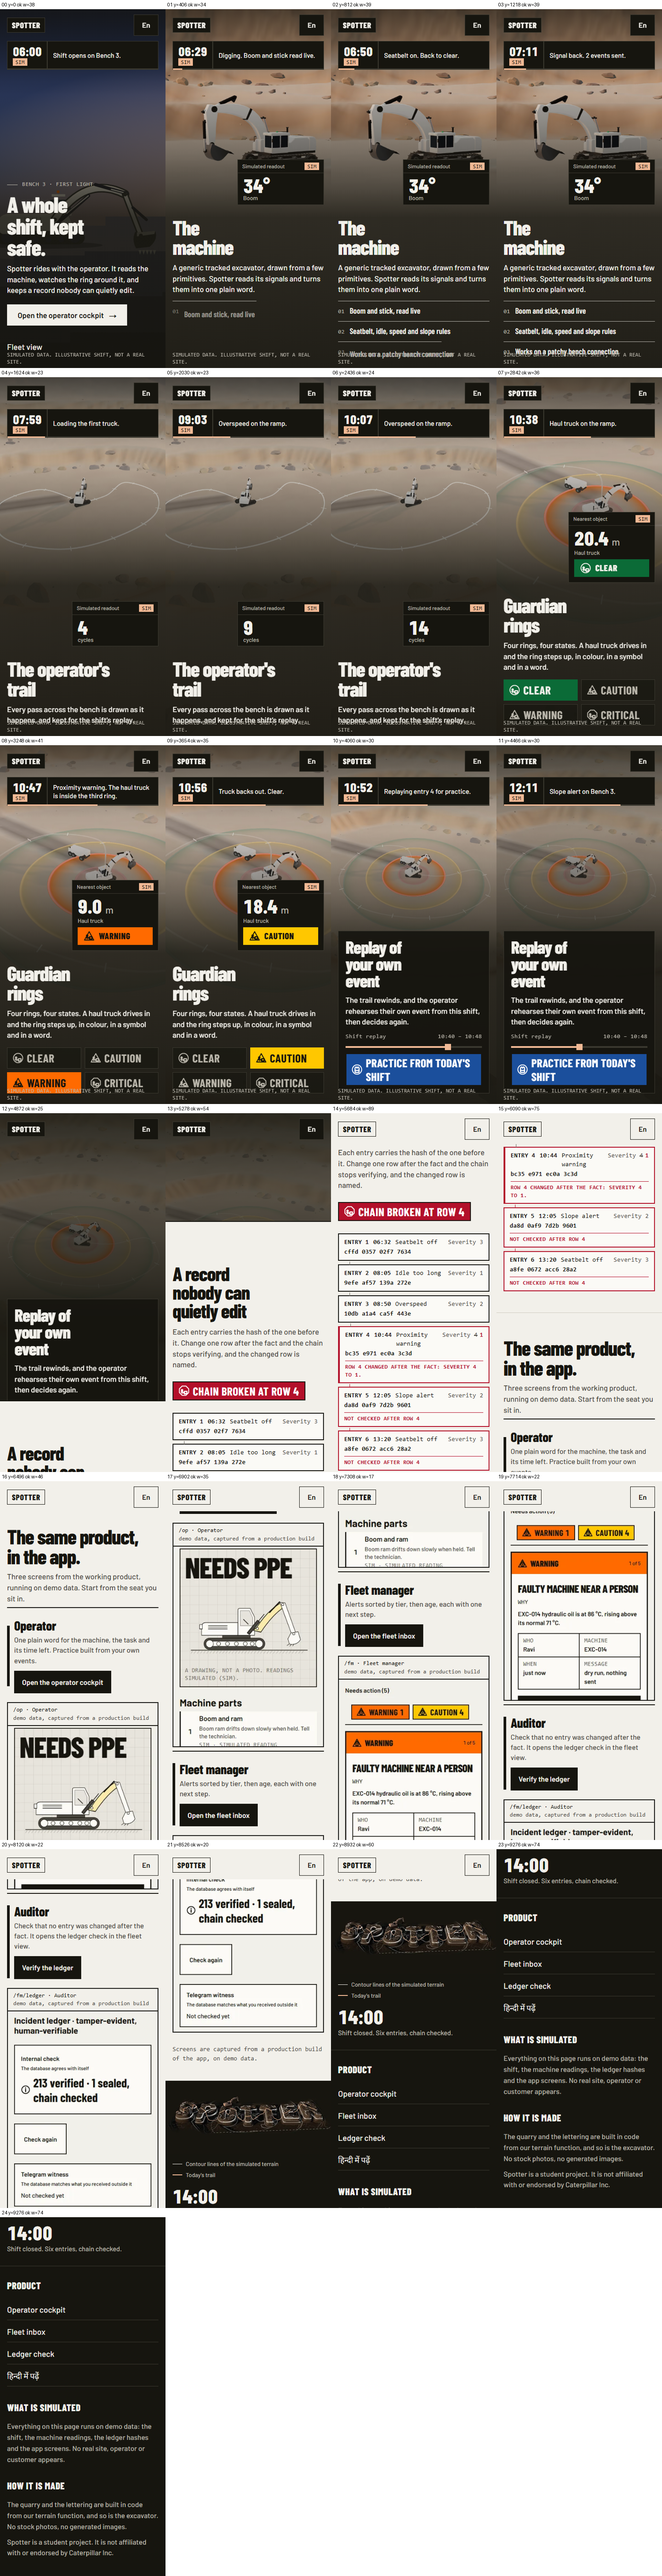
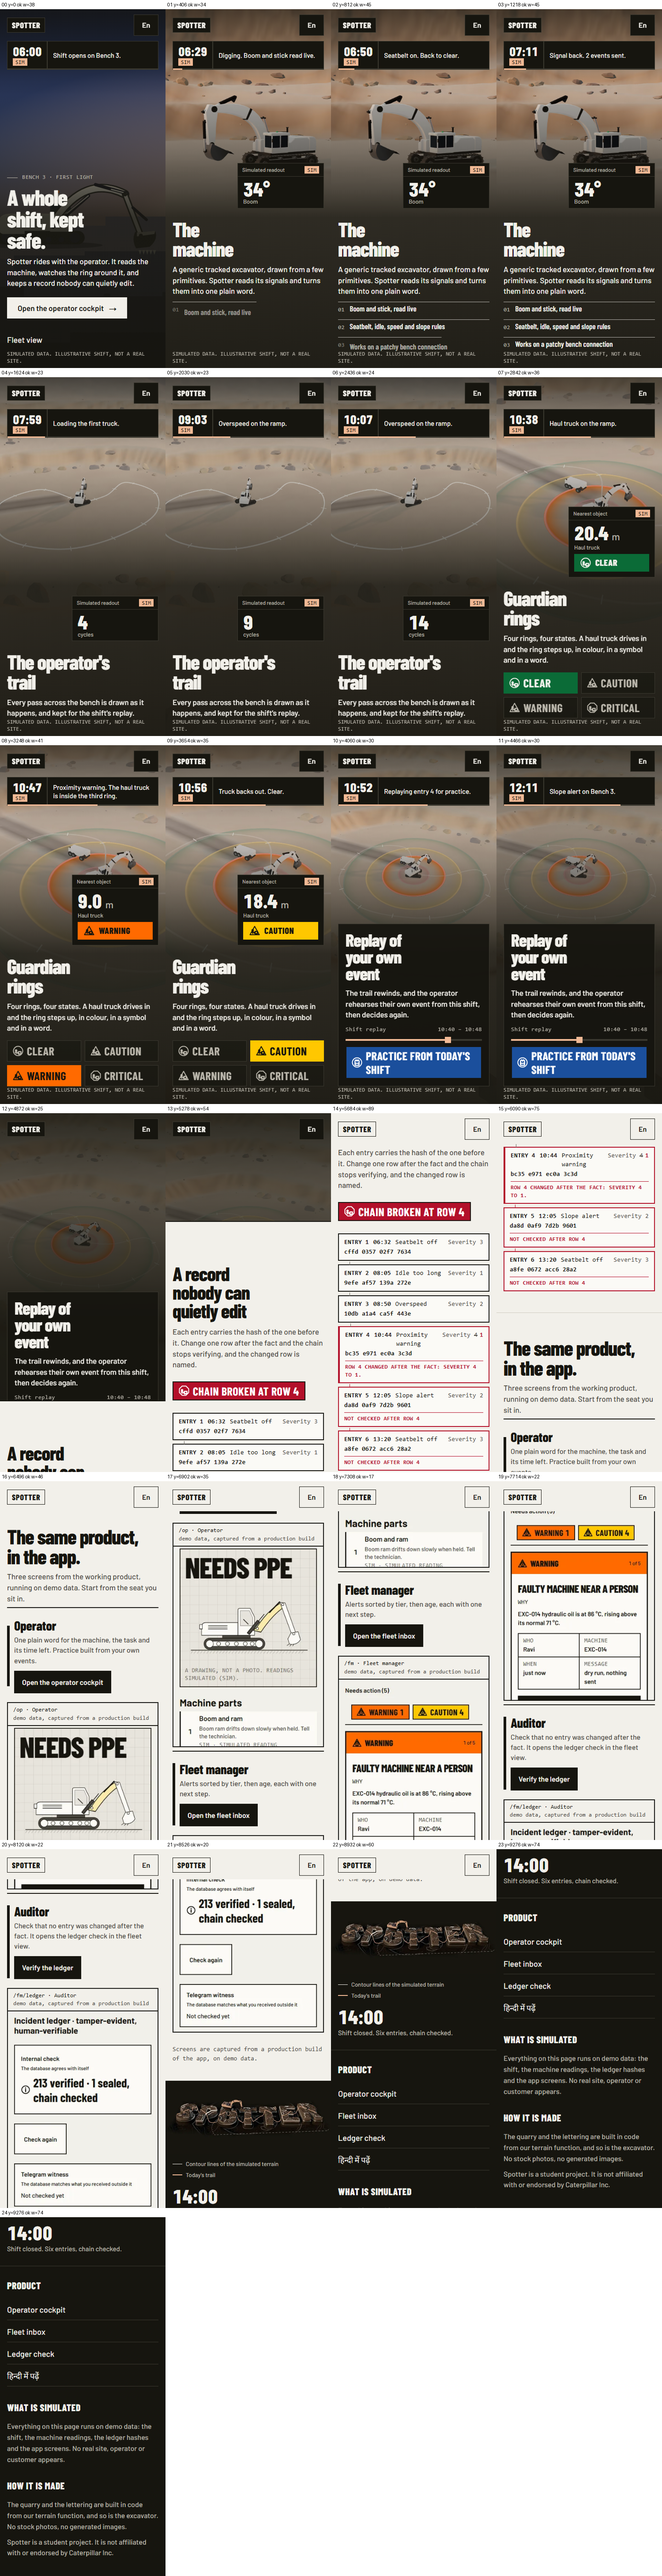
fix(landing): phone stage padding, final B2 audits (normal and headed), report

diff --git a/apps/web/src/styles/landing.css b/apps/web/src/styles/landing.css
@@ -1946,7 +1946,7 @@ li[data-role="3"] > .l-role {
   .l-caption {
     left: 16px;
     right: 16px;
-    bottom: 6px;
+    bottom: 8px;
     font-size: 11.5px;
     line-height: 16px;
   }
@@ -1960,8 +1960,8 @@ li[data-role="3"] > .l-role {
     display: flex;
     flex-direction: column;
     justify-content: flex-end;
-    gap: 14px;
-    padding: 0 16px 24px;
+    gap: 12px;
+    padding: 0 16px 40px;
   }
 
   .l-scrim {
@@ -2041,8 +2041,12 @@ li[data-role="3"] > .l-role {
     display: none;
   }
 
+  .callout {
+    padding-top: 6px;
+  }
+
   .callout-t {
-    font-size: 18px;
+    font-size: 17px;
   }
 
   .l-leaders {

diff --git a/docs/sessions/reviews/landing-v3-B-report.md b/docs/sessions/reviews/landing-v3-B-report.md
@@ -1,47 +1,53 @@
 # Landing v3, implementer B report (page, engine, copy)
 
-Branch `lane/l2-landing-v3-b`, A (`origin/lane/l2-landing-v3-a`, e29e014) merged in. Audits run on a production build with A merged.
+Branch `lane/l2-landing-v3-b`. A merged at 9a1d778 (polished 3D wordmark), docs at e7688db (HEADED audit). Round 2 after the Opus review (CHANGES REQUIRED, 2 High, 9 Medium, 11 Low).
 
-## Audit results (spec §12.1, §12.2)
+## Audit results (round 2, production build, A merged)
 
-| Run | Frames | Dead / thin / flat |
-|---|---|---|
-| 1440 x 900, step 450, tape counted as chrome | 30 | 0 |
-| 375 x 812, step 406, tape counted as chrome | 25 | 0 |
-| 1440, `CHROME` plus `.l-tape` (tape excluded) | 30 | 0 |
-| 375, `CHROME` plus `.l-tape` (tape excluded) | 25 | 0 |
+| Run | Frames | Dead / thin / flat | Path audited |
+|---|---|---|---|
+| 1440 x 900 / 450 | 30 | 0 | poster fallback (headless, no WebGL) |
+| 375 x 812 / 406 | 25 | 0 | poster fallback |
+| 1440 x 900 / 450, `HEADED=1` | 30 | 0 | **live WebGL: true** |
+| 375 x 812 / 406, `HEADED=1` | 25 | 0 | see its report.md for the WebGL line |
+| 1440 and 375, tape excluded (§12.2) | 30 / 25 | 0 / 0 | poster fallback, outputs not committed |
 
-Reports and contact sheets: `docs/design/qa/landing-v3/B-1440/` and `B-375/` (frames deleted). The tape-excluded runs were not saved (same counts).
-Lowest word counts at 375: frames 20-21 (14 and 12 words, the phone proof blocks), still above the 10 threshold.
+Reports and contact sheets: `docs/design/qa/landing-v3/B2-1440/`, `B2-375/`, `B2-1440-headed/`, `B2-375-headed/`. Wordmark screenshots (headed, 1440): `B2-wordmark-top.png` (plate arriving, near top-down) and `B2-wordmark-oblique.png` (end of the page, oblique). In both the 3D letters are Barlow Condensed (the canvas resolves `--font-barlow-condensed` to "Barlow Condensed" and the face is loaded).
+
+What the audit does not prove (review finding 11): the probe ignores overlays and text-on-text overlap. The overlay case is now fixed structurally (the dim sits under the card), and I looked at every contact sheet frame by eye, but there is no automated overlap check.
+
+## Review findings
+
+High
+1. Replay card dim: `.l-dim` moved inside stage 5, under the card, so it darkens the scene only. Fixed.
+2. Footer collision at 375: legend and closing line are in flow on phones. Fixed.
+
+Medium
+3. Headings behind the tape: ledger heading smaller and higher; tape hides before the proof heading (0.85 of the viewport) and on phones as soon as the paper rises. Fixed.
+4. Phone readouts keep their label and the SIM mark. Fixed.
+5. No-JS page: `NOSCRIPT` now mirrors the reduced-motion rules (proof sheets, callouts, notes, ledger end state). Fixed.
+6. Honesty of the proof copy: title "The same product, in the app.", tag "demo data, captured from a production build", caption "captured from a production build of the app, on demo data" (en and hi). Fixed.
+7. Joint angles: the plate shows magnitudes (no sign). The convention is still not agreed with A; open.
+8. Layout reads per frame: label and plate offsets are cached in `measure()`; canvas and stage rects are no longer read (anchors are already in block coordinates). Fixed.
+9. First-paint assets: `contours.svg` is no longer referenced (the footer plate is the 3D wordmark with stills); stage stills are `display:none` until current or next stage and only without WebGL, so they do not load with WebGL on. Fixed.
+10. Accessibility tree: inactive stage blocks are now `opacity:0` + `pointer-events:none` (not `visibility:hidden`), so the h1, h2s and bodies stay readable; stage 1 (links) is `inert` when not current. Fixed.
+11. Report overstated the audit: stated above; headed runs added.
+
+Low: 12 nav hides at the footer (fixed); 13 caption has a z-index and shows on phones (fixed); 14 phone bar wraps (fixed); 15 `width`/`height` on the `<source>`s (fixed); 16 WebP before AVIF (fixed); 17 op alt no longer mentions the status band (fixed); 18 ledger annotation tag sits inside the box (fixed); 19 tick targets read from `ENTRIES` (fixed); 20 S2 plate over the machine (not changed, camera is A's); 21 units are catalogue strings (`ro.tonnesFmt`, `ro.pctFmt`; fixed); 22 for A.
+
+Also fixed: the pinned proof squashed its role rows on short or narrow screens (found in a headed run); the grid rows are `max-content` and short screens get tighter spacing.
+
+## 3D footer wordmark
+
+`landing-footer.tsx` holds a canvas plus two stills. The engine mounts `mountWordmark` through a dynamic import when the plate is within 700 px of the viewport (desktop, WebGL, motion allowed), drives `setProgress` with the footer's scroll-in progress (0 when the plate reaches the bottom edge, 1 a little after it has fully arrived), calls `resize()` on resize and disposes it when the plate leaves. Stills: `wordmark-top` is the no-script picture; `wordmark-3d` is shown on phones, with reduced motion and when WebGL is off or fails. The legend says "Contour lines of the simulated terrain", "Haul road" and "Today's trail", and "How it is made" says the lettering is built in code from the terrain function.
 
 ## Checks
 
-typecheck, lint, `pnpm --filter web test` (556 tests, 53 files, including the new `shift-tape.test.ts` with 11 tests and 1 added `ledger-demo` test) and `pnpm --filter web build` are green on the merged branch.
+typecheck and lint clean; `pnpm --filter web test` 570 passed (all files); `pnpm --filter web build` green. The 375 headed run has 26 frames (the headed window scrolls a little differently) and 0 dead/thin/flat; an earlier headed 375 run showed 2 thin frames caused by the language sheet being opened by a stray pointer event, plus a real overlap of the caption on the last S2 callout, which is fixed.
 
-## §12 checklist
+## Deviations
 
-1. Audit 0/0 at both sizes: done (above).
-2. Tape excluded 0/0: done.
-3. Reduced motion and no JS: reduced motion emulated, screenshots `docs/design/qa/landing-v3/reduced-1440.png` and `reduced-375.png` (stack of stills, each with copy, readout and a static tape strip; S6 end state; S7 stack). No-JS uses the same rules through the `<noscript>` block (not screenshotted separately).
-4. Sync check, run in `next dev`: `?still=4:0.45&ui=1` gives state Warning, nearest 12.0 m, tape 10:44, tick 4 stamped, "10:44 · LEDGER ENTRY 4". `?still=5:0.3&ui=1` gives clock 10:51 with Replay mode. See deviation 1 for the `&ui=1`.
-5. Keyboard: tab walk confirmed the §10 order (skip link, language, hero actions, six tape ticks, three role links, footer links), a 3 px outline on each stop, no focus inside hidden stage blocks (they are `visibility:hidden`). **axe was not run**: there is no axe dependency and none was allowed.
-6. Contrast: all pairs are the §4 tokens. hi at 375 was only checked through the audit (no clipped text seen in the contact sheet); no separate hi pass.
-7. Build green, three.js stays a dynamic import (unchanged). LCP element not measured separately.
-8. No calls, SMS, Telegram or SOS; the captures were made by navigation and screenshot only.
-
-## Deviations and decisions
-
-1. **`?still=` posters vs the sync check.** Posters must be clean scenes, so `?still=s:p` still hides all page UI. The §12.4 sync check needs the tape and readouts, so it uses `?still=s:p&ui=1` (non-production only).
-2. **Tape rounds to whole minutes.** The frozen `shiftClock` gives 643.5 at S4 p .45; `tapeState` rounds, so that frame reads 10:44 with entry 4 stamped (a unit test covers it).
-3. **Tape position in the DOM.** It is `position:fixed` and sits after the scene in DOM order so the tab order matches §10.
-4. **Proof captures** were recaptured from the local production build after the brand fix (`capture-proof.sh`). They are cropped (rail removed; on /op the yellow status band is removed too) so no large caution-yellow surface is in frame. Sizes: desktop 1320 x 825, phone 390 x 520, all at most 90 KB. Hi screens: not captured; `LOCALIZED_CAPTURES` in `proof.tsx` is empty, so hi reuses the en captures (Q3 rule: the app screens were not checked for English fallbacks). The script supports a locale argument.
-5. **Footer legend** says "Bench contours, every 1.6 m (3.2 m on steep faces)" in en and hi, per the lead.
-6. **Added keys** (en and hi): `ro.trail`, `ro.pending`, `s6.sevLabel`, `s7.*.alt` rewritten for the new crops (no figures that the fixtures could change). The auditor row says it opens the ledger check in the fleet view (Q2). Dead keys removed: `scrollHint`, `s1b`, `rail.*`.
-7. **Phone S6 and S7** show their end state (no per-row IntersectionObserver stamping): rows are simply static.
-8. **Settled values** (reduced motion, no scene): boom 34, stick 61, bucket 22 degrees, labelled SIM; they are replaced by `getReadout()` when the scene provides it.
-9. I did not edit `shift.ts` (A's copy is used) or `scene/**`.
-
-## Open
-
-- Hindi copy still needs Shlok's read (Q4).
-- axe and a no-JS screenshot were not run.
+- `?still=s:p&ui=1` keeps the UI for the sync check (plain `?still=` hides it so posters stay clean).
+- The tape rounds to whole minutes (stage 4 p .45 reads 10:44, entry 4 stamped).
+- Hi screens are not captured; hi reuses the en captures.
+- Hindi copy still needs Shlok's read.

diff --git a/docs/design/qa/landing-v3/B2-1440/report.md b/docs/design/qa/landing-v3/B2-1440/report.md
@@ -1,0 +1,36 @@
+# Scroll audit
+
+30 frames at 1440x900, 0 dead, thin or flat (WebGL: false)
+
+| # | y | words | flat | verdict | first text |
+|---|---|---|---|---|---|
+| 0 | 0 | 38 | 58 | ok | A whole |
+| 1 | 450 | 39 | 58 | ok | A whole |
+| 2 | 900 | 43 | 62 | ok | The |
+| 3 | 1350 | 48 | 62 | ok | The |
+| 4 | 1800 | 60 | 63 | ok | The |
+| 5 | 2250 | 56 | 63 | ok | The |
+| 6 | 2700 | 32 | 65 | ok | The operator's |
+| 7 | 3150 | 33 | 65 | ok | The operator's |
+| 8 | 3600 | 33 | 65 | ok | The operator's |
+| 9 | 4050 | 33 | 65 | ok | The operator's |
+| 10 | 4500 | 48 | 64 | ok | Guardian |
+| 11 | 4950 | 48 | 64 | ok | Guardian |
+| 12 | 5400 | 54 | 63 | ok | Guardian |
+| 13 | 5850 | 48 | 64 | ok | Guardian |
+| 14 | 6300 | 30 | 61 | ok | Replay of |
+| 15 | 6750 | 30 | 61 | ok | Replay of |
+| 16 | 7200 | 29 | 55 | ok | Replay of |
+| 17 | 7650 | 31 | 36 | ok | Replay of |
+| 18 | 8100 | 17 | 94 | ok | Replay of |
+| 19 | 8550 | 39 | 36 | ok | Shift closed. Six entries, chain checked. |
+| 20 | 9000 | 129 | 46 | ok | Shift closed. Six entries, chain checked. |
+| 21 | 9450 | 112 | 42 | ok | nobody can |
+| 22 | 9900 | 48 | 55 | ok | The same product, in the app. |
+| 23 | 10350 | 98 | 58 | ok | The same product, in the app. |
+| 24 | 10800 | 98 | 65 | ok | The same product, in the app. |
+| 25 | 11250 | 98 | 63 | ok | The same product, in the app. |
+| 26 | 11700 | 98 | 103 | ok | The same product, in the app. |
+| 27 | 12150 | 102 | 87 | ok | Check that no entry was changed after the fact.  |
+| 28 | 12370 | 75 | 30 | ok | 14:00 |
+| 29 | 12370 | 75 | 30 | ok | 14:00 |

diff --git a/docs/design/qa/landing-v3/B2-1440-headed/report.md b/docs/design/qa/landing-v3/B2-1440-headed/report.md
@@ -6,14 +6,14 @@
 |---|---|---|---|---|---|
 | 0 | 0 | 38 | 61 | ok | A whole |
 | 1 | 450 | 39 | 65 | ok | A whole |
-| 2 | 900 | 43 | 63 | ok | The |
+| 2 | 900 | 43 | 62 | ok | The |
 | 3 | 1350 | 48 | 64 | ok | The |
 | 4 | 1800 | 60 | 64 | ok | The |
 | 5 | 2250 | 56 | 65 | ok | The |
 | 6 | 2700 | 32 | 65 | ok | The operator's |
 | 7 | 3150 | 33 | 65 | ok | The operator's |
 | 8 | 3600 | 33 | 65 | ok | The operator's |
-| 9 | 4050 | 33 | 65 | ok | The operator's |
+| 9 | 4050 | 33 | 66 | ok | The operator's |
 | 10 | 4500 | 48 | 65 | ok | Guardian |
 | 11 | 4950 | 48 | 66 | ok | Guardian |
 | 12 | 5400 | 54 | 64 | ok | Guardian |
@@ -27,10 +27,10 @@
 | 20 | 9000 | 129 | 46 | ok | Shift closed. Six entries, chain checked. |
 | 21 | 9450 | 112 | 42 | ok | nobody can |
 | 22 | 9900 | 48 | 54 | ok | The same product, in the app. |
-| 23 | 10350 | 98 | 57 | ok | The same product, in the app. |
+| 23 | 10350 | 98 | 56 | ok | The same product, in the app. |
 | 24 | 10800 | 98 | 64 | ok | The same product, in the app. |
-| 25 | 11250 | 98 | 63 | ok | The same product, in the app. |
+| 25 | 11250 | 98 | 62 | ok | The same product, in the app. |
 | 26 | 11700 | 98 | 103 | ok | The same product, in the app. |
 | 27 | 12150 | 102 | 88 | ok | Check that no entry was changed after the fact.  |
-| 28 | 12364 | 75 | 38 | ok | 14:00 |
-| 29 | 12364 | 75 | 38 | ok | 14:00 |
+| 28 | 12364 | 75 | 37 | ok | 14:00 |
+| 29 | 12364 | 75 | 37 | ok | 14:00 |

diff --git a/docs/design/qa/landing-v3/B2-375-headed/report.md b/docs/design/qa/landing-v3/B2-375-headed/report.md
@@ -1,0 +1,32 @@
+# Scroll audit
+
+26 frames at 375x812, 0 dead, thin or flat (WebGL: true)
+
+| # | y | words | flat | verdict | first text |
+|---|---|---|---|---|---|
+| 0 | 0 | 38 | 68 | ok | A whole |
+| 1 | 406 | 34 | 61 | ok | The |
+| 2 | 812 | 45 | 63 | ok | The |
+| 3 | 1218 | 45 | 64 | ok | The |
+| 4 | 1624 | 23 | 63 | ok | The operator's |
+| 5 | 2030 | 24 | 63 | ok | The operator's |
+| 6 | 2436 | 24 | 63 | ok | The operator's |
+| 7 | 2842 | 36 | 66 | ok | Guardian |
+| 8 | 3248 | 41 | 66 | ok | Guardian |
+| 9 | 3654 | 35 | 69 | ok | Guardian |
+| 10 | 4060 | 30 | 67 | ok | Replay of |
+| 11 | 4466 | 30 | 63 | ok | Replay of |
+| 12 | 4872 | 25 | 85 | ok | Replay of |
+| 13 | 5278 | 50 | 89 | ok | A record |
+| 14 | 5684 | 89 | 57 | ok | nobody can |
+| 15 | 6090 | 74 | 55 | ok | Entry 2 |
+| 16 | 6496 | 50 | 68 | ok | a8fe 0672 acc6 28a2 |
+| 17 | 6902 | 21 | 69 | ok | Open the operator cockpit |
+| 18 | 7308 | 17 | 64 | ok | Fleet manager |
+| 19 | 7714 | 26 | 66 | ok | Open the fleet inbox |
+| 20 | 8120 | 22 | 62 | ok | Auditor |
+| 21 | 8526 | 13 | 100 | ok | Screens are captured from a production build of  |
+| 22 | 8932 | 33 | 95 | ok | Screens are captured from a production build of  |
+| 23 | 9338 | 74 | 57 | ok | Shift closed. Six entries, chain checked. |
+| 24 | 9351 | 69 | 57 | ok | 14:00 |
+| 25 | 9351 | 69 | 57 | ok | 14:00 |

diff --git a/docs/design/qa/landing-v3/B2-375/report.md b/docs/design/qa/landing-v3/B2-375/report.md
@@ -6,8 +6,8 @@
 |---|---|---|---|---|---|
 | 0 | 0 | 38 | 58 | ok | A whole |
 | 1 | 406 | 34 | 53 | ok | The |
-| 2 | 812 | 39 | 55 | ok | The |
-| 3 | 1218 | 39 | 56 | ok | The |
+| 2 | 812 | 45 | 55 | ok | The |
+| 3 | 1218 | 45 | 55 | ok | The |
 | 4 | 1624 | 23 | 55 | ok | The operator's |
 | 5 | 2030 | 23 | 55 | ok | The operator's |
 | 6 | 2436 | 24 | 55 | ok | The operator's |
